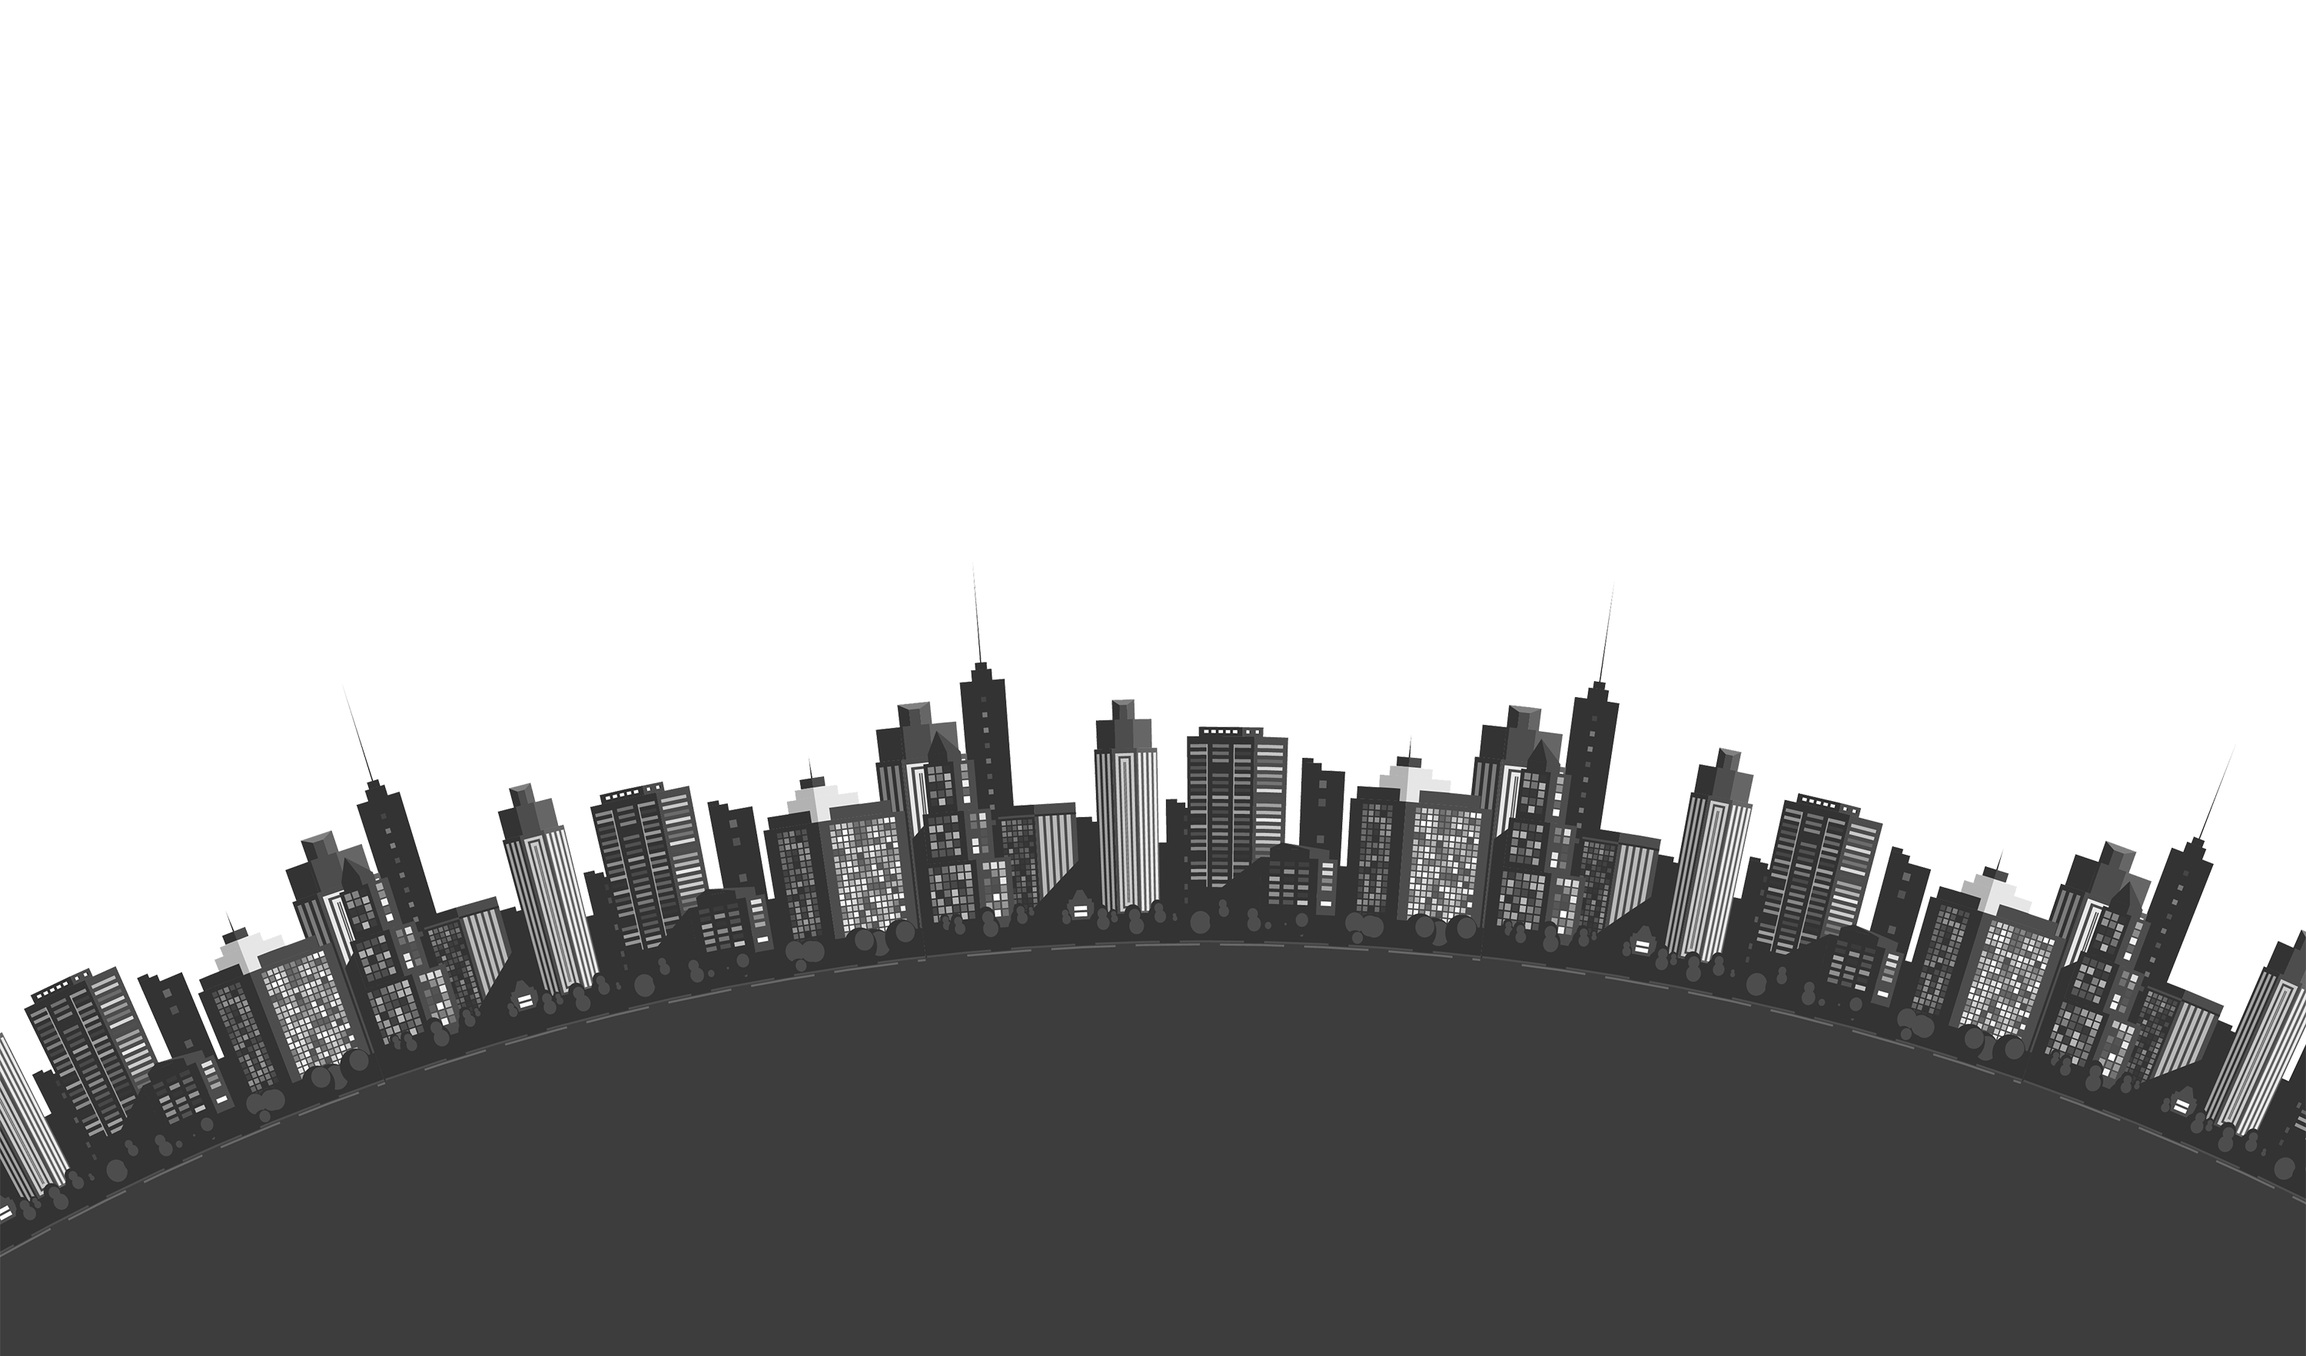
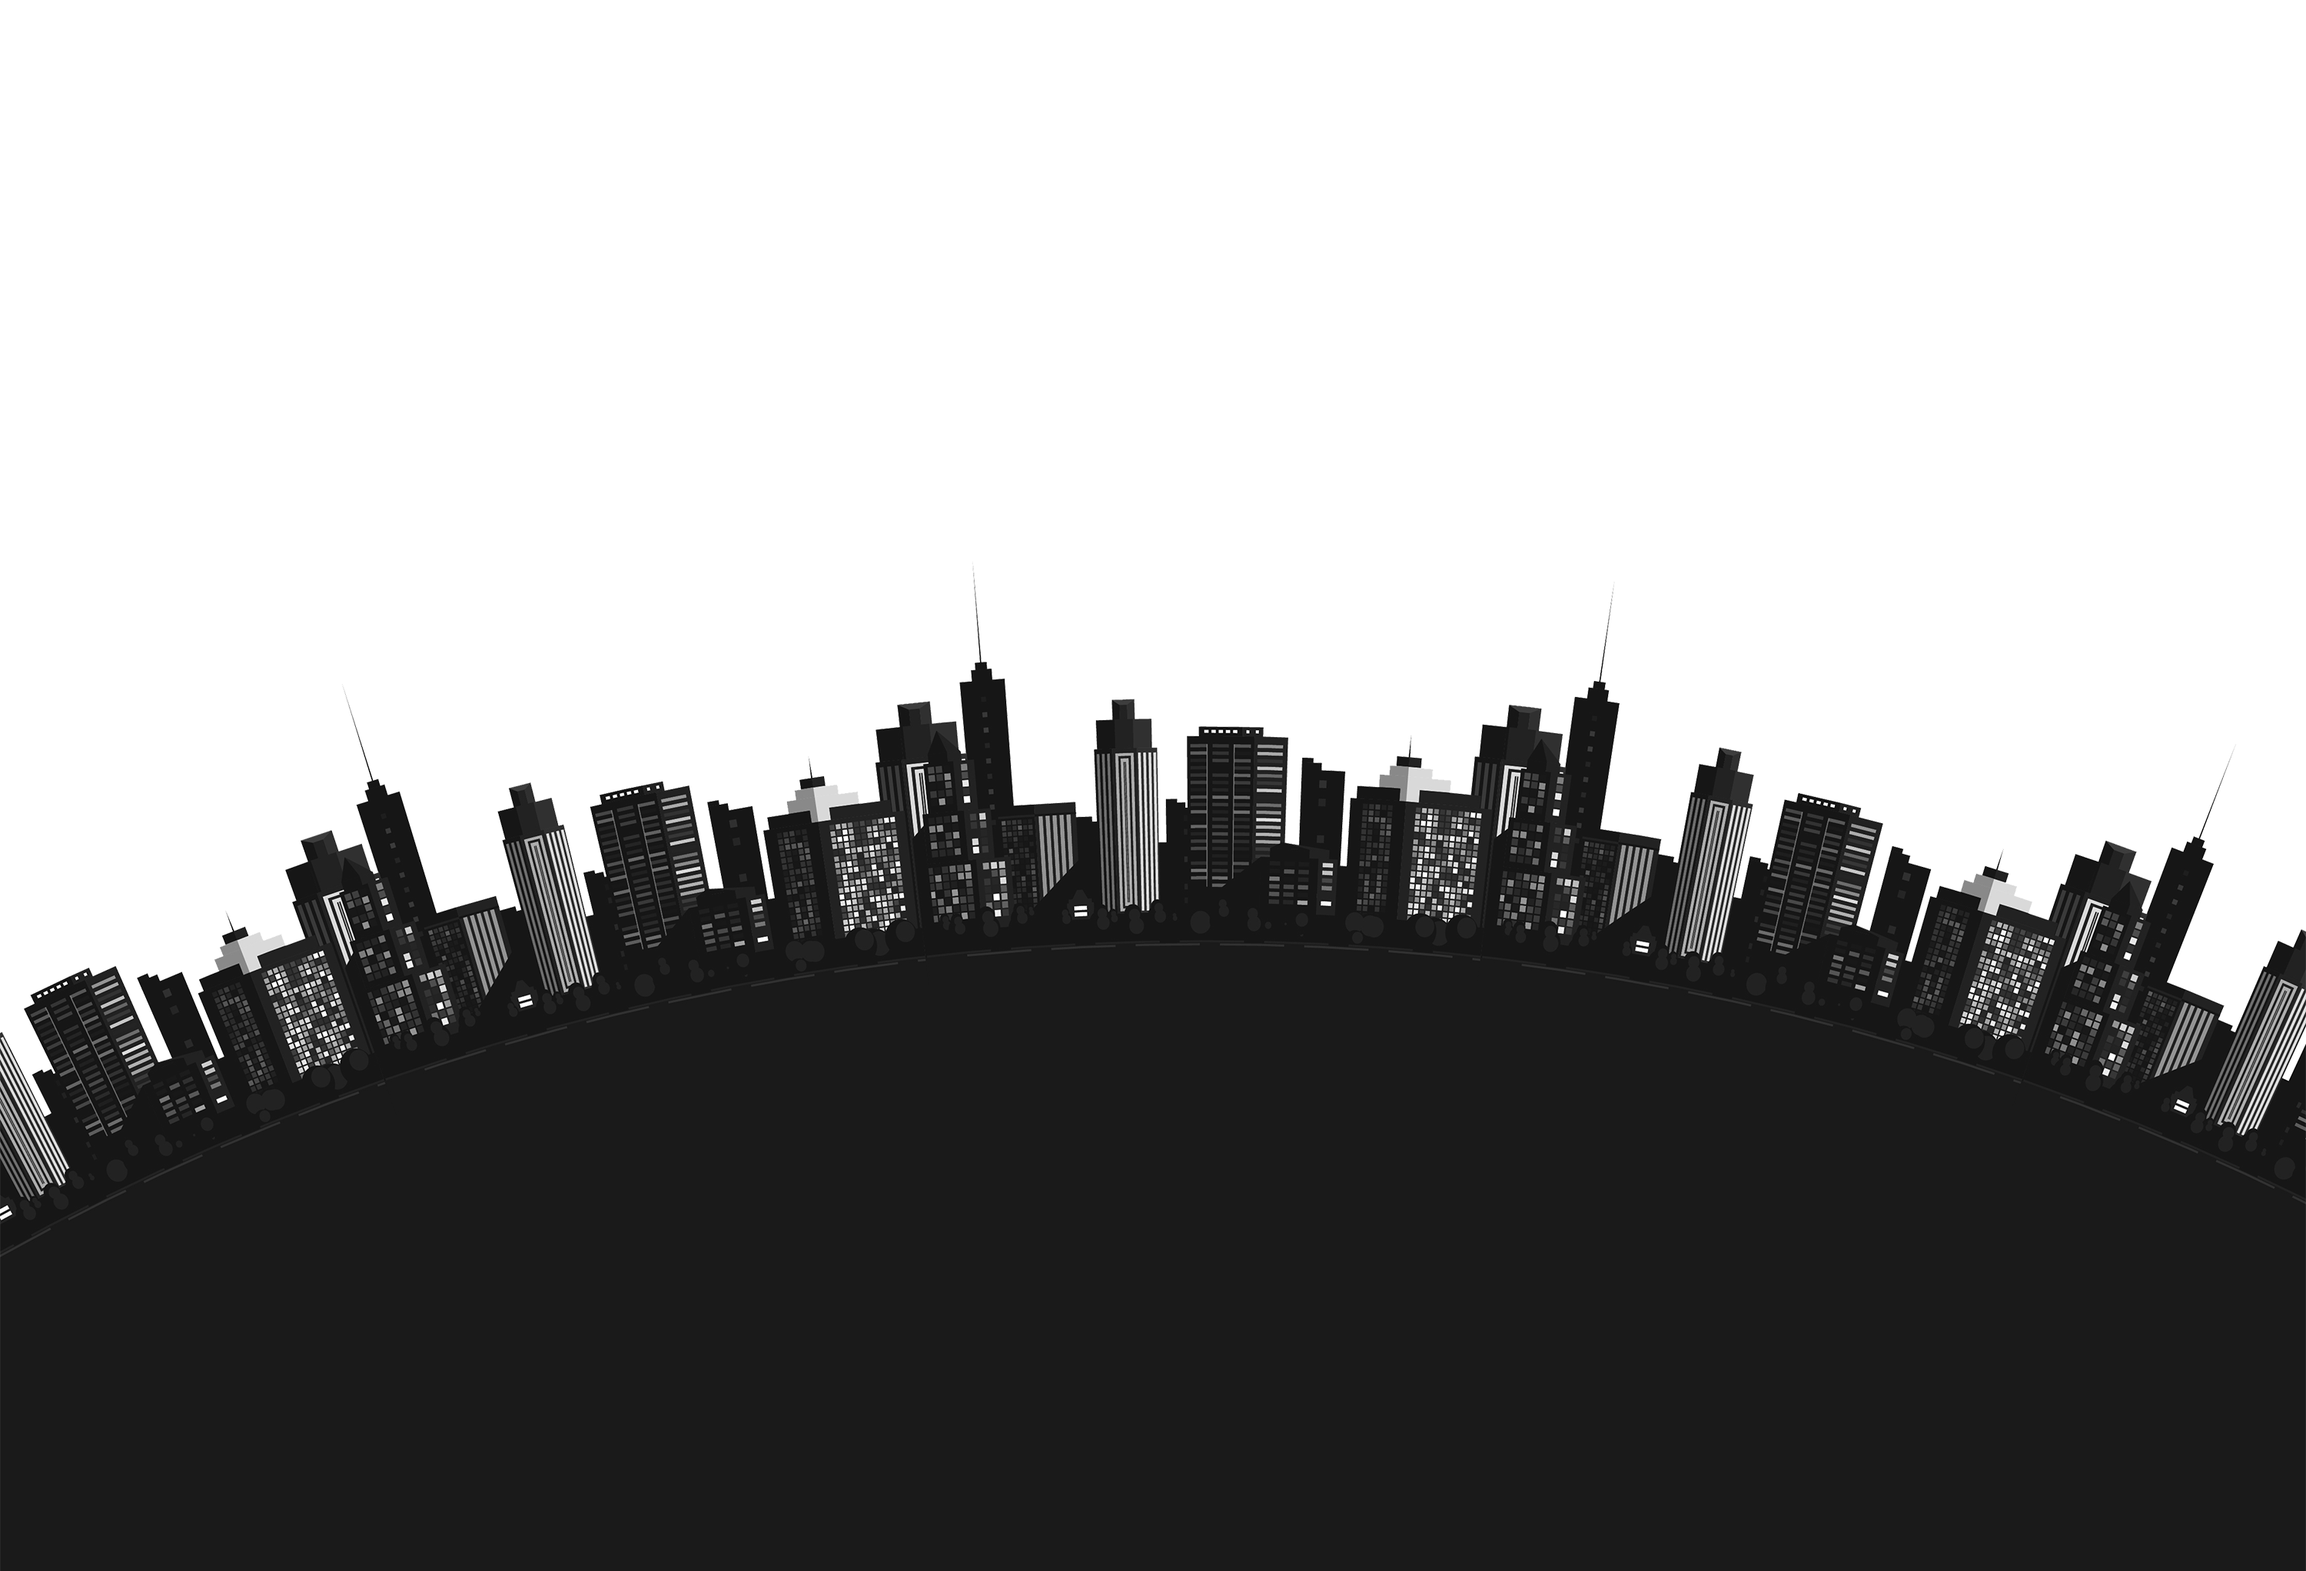
testing new design

diff --git a/css/index.css b/css/index.css
@@ -1,5 +1,5 @@
 body {
-  background-color: #232323;
+  background-color: #1a1a1a;
   color: #FFFFFF;
   font-family: "Montserrat", sans-serif;
   font-size: 16px;
@@ -14,7 +14,7 @@ body {
   right: 0;
   text-align: center;
   z-index: 1200;
-  background-color: #232323;
+  background-color: #1a1a1a;
   color: #FFFFFF;
   padding-top: 5px; }
   .navbar .logo {
@@ -42,7 +42,7 @@ body {
 .topSection {
   position: relative;
   width: 100%;
-  min-height: 100vh;
+  min-height: 90vh;
   text-align: center;
   display: -ms-flexbox;
   display: -webkit-flex;
@@ -56,6 +56,15 @@ body {
   left: 0;
   align-items: center;
   /*arrow homebouncearrow end*/ }
+  .topSection .buildingsilo {
+    position: absolute;
+    bottom: 0;
+    width: 100%;
+    margin: auto;
+    left: 0;
+    right: 0;
+    bottom: 20%;
+    top: 0px; }
   .topSection .topCtaHolder {
     position: absolute;
     max-width: 510px;
@@ -68,12 +77,6 @@ body {
     bottom: 0px;
     top: 0px;
     box-sizing: border-box; }
-  .topSection .buildingsilo {
-    position: absolute;
-    bottom: 0;
-    width: 100%;
-    left: 0;
-    right: 0; }
   .topSection .topMainImg {
     position: relative;
     max-width: 190px;

diff --git a/css/index.scss b/css/index.scss
@@ -1,4 +1,4 @@
-$main-bgcolor: #232323;
+$main-bgcolor: #1a1a1a;
 $main-color: #FFFFFF;
 $main-font: 'Montserrat', sans-serif;
 $hover-color: #bababa;
@@ -61,7 +61,7 @@ body {
 .topSection { 
     position: relative;
     width: 100%;
-    min-height: 100vh;
+    min-height: 90vh;
     text-align: center;
     display: -ms-flexbox;
 	display: -webkit-flex;
@@ -73,9 +73,18 @@ body {
     bottom: 0;
     right: 0;
     left: 0;
-
 	align-items: center;
-    
+   
+    .buildingsilo {
+        position:absolute;
+        bottom:0;
+        width:100%;
+        margin: auto;
+        left: 0;
+        right: 0;
+        bottom: 20%;
+        top: 0px;
+    }
     .topCtaHolder {
         position: absolute;
         max-width: 510px;
@@ -91,13 +100,7 @@ body {
         
     }
     
-    .buildingsilo {
-        position:absolute;
-        bottom:0;
-        width:100%;
-        left:0;
-        right:0;
-    }
+    
     
     .topMainImg {
         position: relative;
